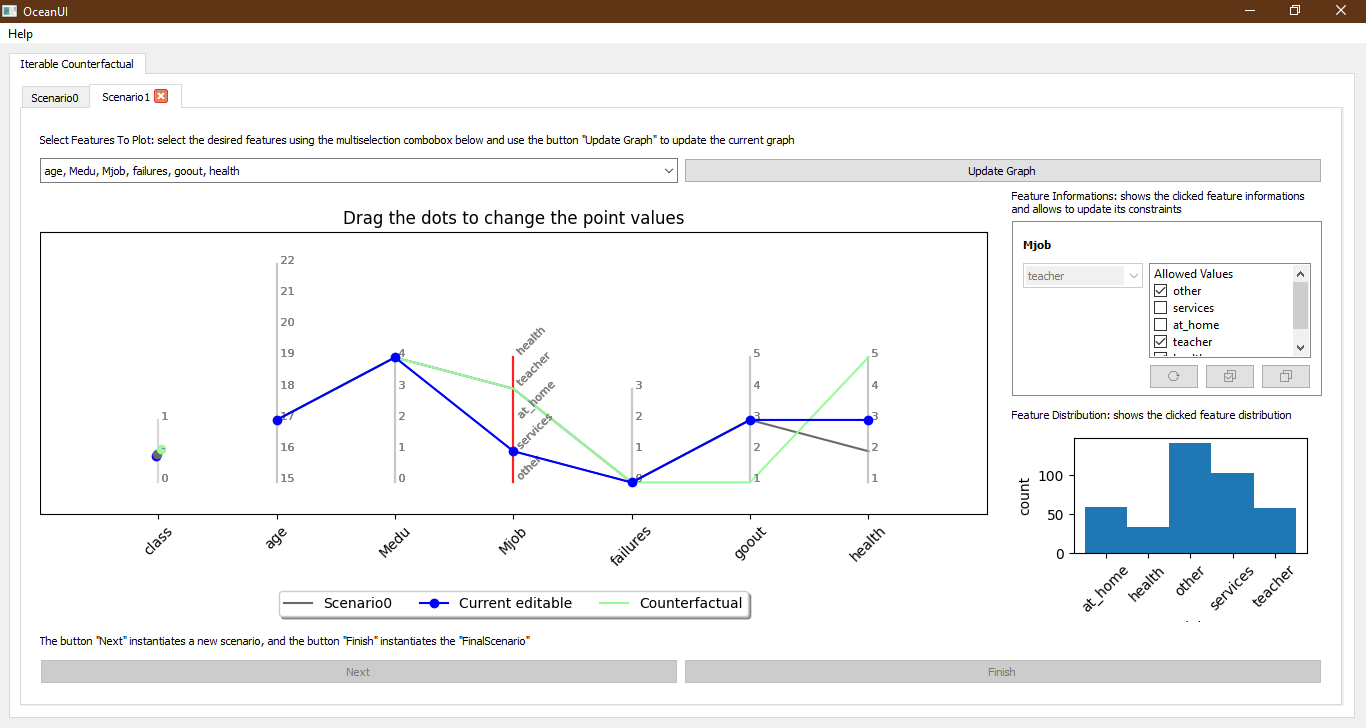
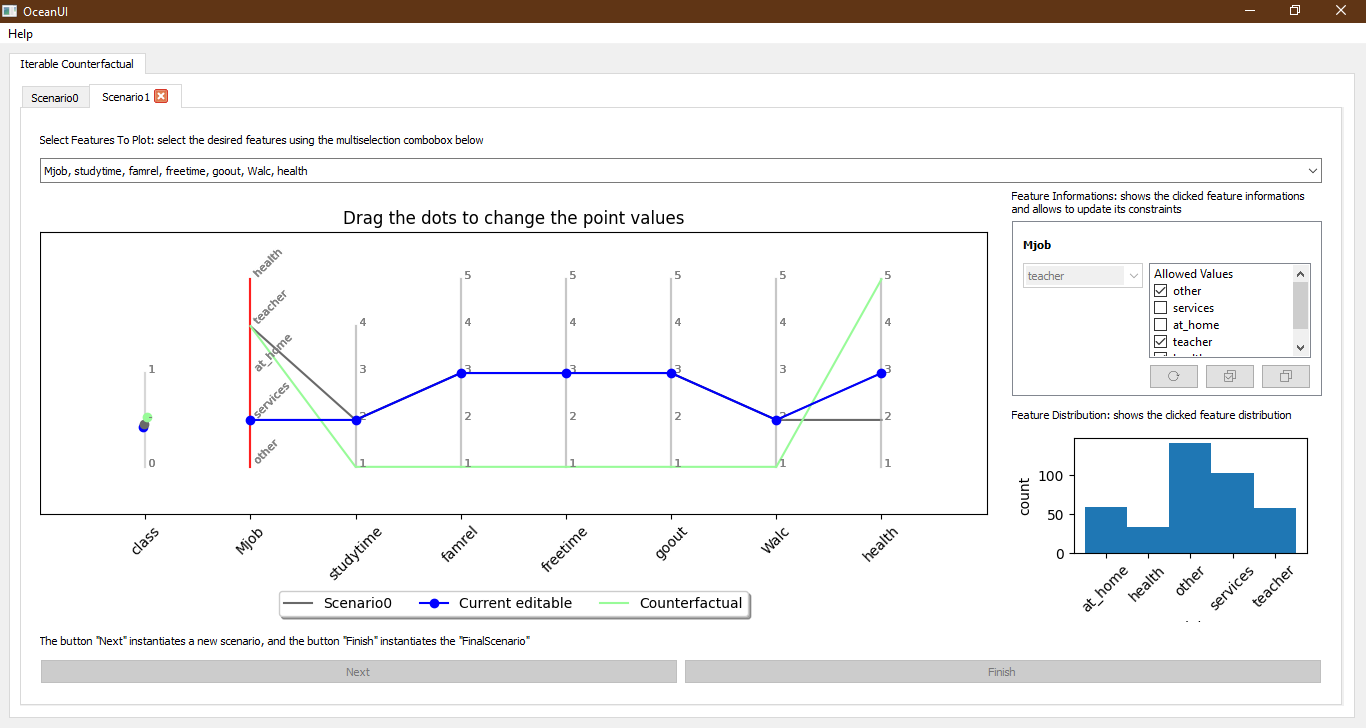
updating tutorial images

diff --git a/ui/uiIterable/tutorial/index.html b/ui/uiIterable/tutorial/index.html
@@ -63,13 +63,13 @@
                 <img src="counterfactualError.png" alt="counterfactualError" class="img-fluid" alt="Responsive image" width="1000">
             </div>
 
-            <p class= "text-justify">Otherwise the new scenario will be created. In this new scenario ("Scenario1"), we have a parallel coordinate chart, where each axis corresponds to a feature of the dataset except for the first axis, which corresponds to the class of each point, one referring to the chosen point in "Scenario0", another referring to the current point (since there has been no change in the current point values, the current point is equal to the point of "Scenario0") and the last one referring to a suggested counterfactual. Among these three, only the current point can be edited by clicking on the dot over the axis we want to change and then pulling it up or down. This graph starts with 4 of the most important features set by default, but it is possible to add more or remove them from the graph using the combobox under "Select Features To Plot." We use the "Update Graph" option to update the graph according to the selected features when selecting the desired features.</p>
+            <p class= "text-justify">Otherwise the new scenario will be created. In this new scenario ("Scenario1"), we have a parallel coordinate chart, where each axis corresponds to a feature of the dataset except for the first axis, which corresponds to the class of each point, one referring to the chosen point in "Scenario0", another referring to the current point (since there has been no change in the current point values, the current point is equal to the point of "Scenario0") and the last one referring to a suggested counterfactual. Among these three, only the current point can be edited by clicking on the dot over the axis we want to change and then pulling it up or down. This graph starts with the features that were suggested to be changed by the counterfactual, but it is possible to add more or remove them from the graph using the combobox under "Select Features To Plot."</p>
 
             <div class="text-center">
                 <img src="scenario1Initial.png" alt="scenario1Initial" class="img-fluid" alt="Responsive image" width="1000">
             </div>
 
-            <p class= "text-justify">As said above, other features can be added or removed from the graph, and the current point values can be changed (see the axis of the "health" feature). By clicking on a value (on one of the editable axes) of the current point, we can see on the right side the distribution of the clicked feature's data and also the associated component; in it, we can change the restrictions on the feature (the suggested counterfactual will only feel the change in the next scenario - see component of feature Mjob). While we are working on selecting features or on the restrictions on some feature, we can see an exclamation mark next to the option "Update Graph," this sign indicates that the graph is outdated, being necessary to update it.</p>
+            <p class= "text-justify">As said above, other features can be added or removed from the graph, and the current point values can be changed (see the axis of the "health" feature). By clicking on a value (on one of the editable axes) of the current point, we can see on the right side the distribution of the clicked feature's data and also the associated component; in it, we can change the restrictions on the feature (the suggested counterfactual will only feel the change in the next scenario - see component of feature Mjob). While we are working on selecting features or on the restrictions on some features, the graph is updated.</p>
 
             <div class="text-center">
                 <img src="scenario1Changed.png" alt="scenario1Changed" class="img-fluid" alt="Responsive image" width="1000">
